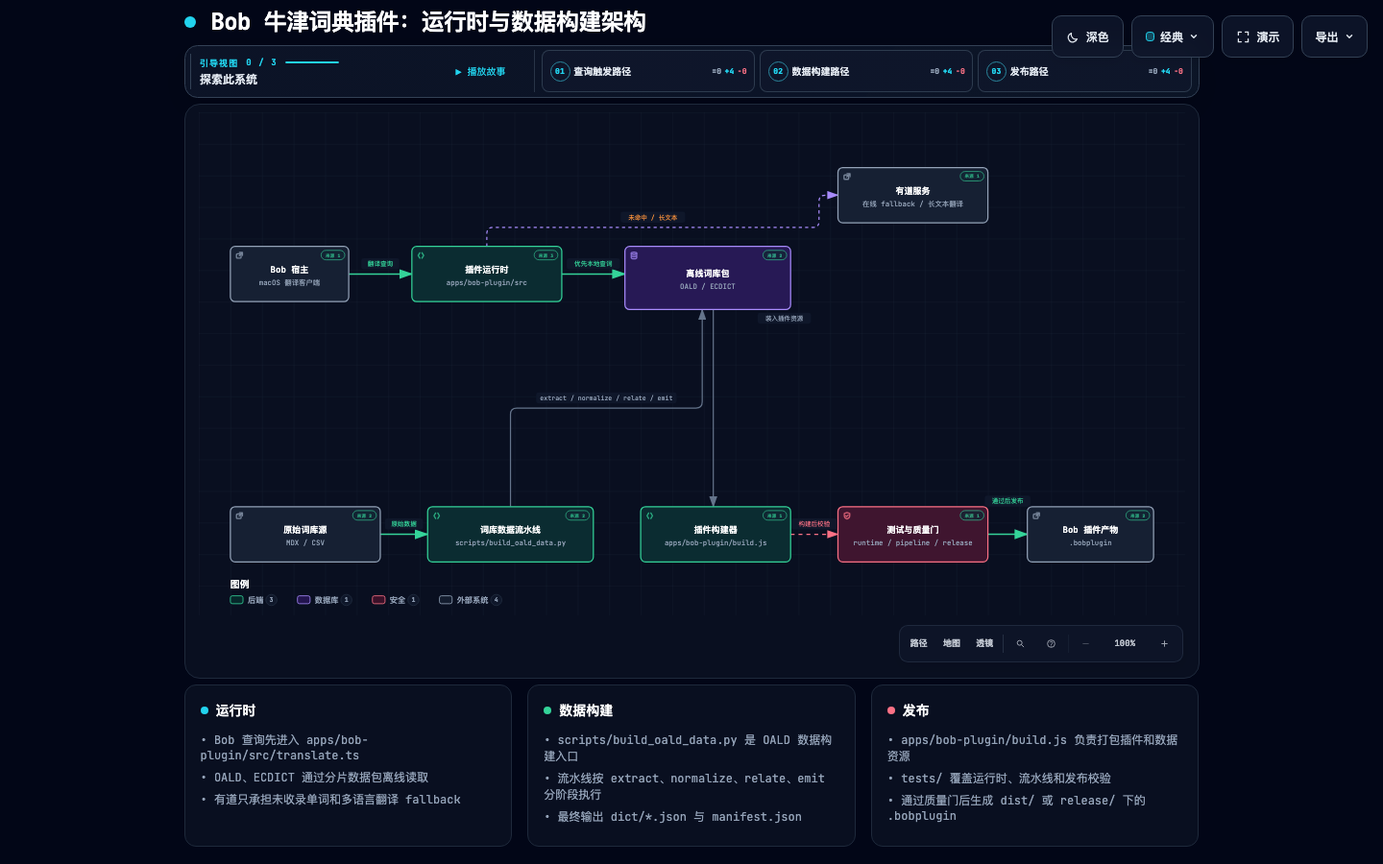
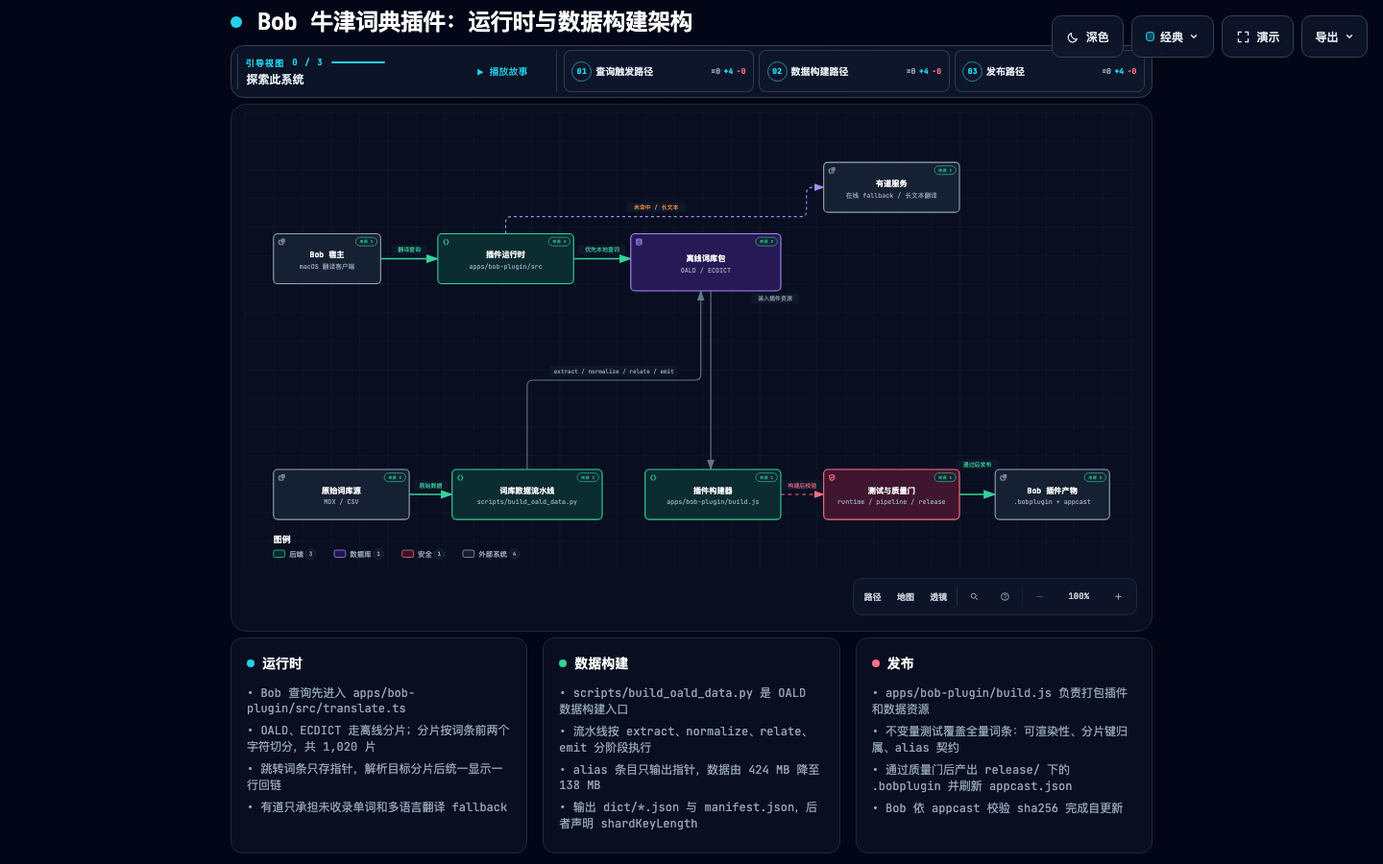
docs: 更新架构图至当前实现
内容同步（原图停留在 alias 指针化之前）：
- 词库包：标注 1,020 个双字母分片
- 运行时卡片：说明分片按前两个字符切分、跳转词条只存指针并显示回链
- 数据构建卡片：alias 指针化带来的 424 MB -> 138 MB，manifest 声明 shardKeyLength
- 发布卡片：补上全量不变量测试与 appcast 自更新链路
- 源码证据 pin 从 e287aae 更新到 01899f7，15 处引用可在该 revision 复核

校验：showcase 9/9 通过、0 错误 0 警告；visual-check 的 containment、
readability、viewerChrome 均 pass，4 张截图已刷新。

diff --git a/docs/bob-plugin-oald-dictionary.architecture.html b/docs/bob-plugin-oald-dictionary.architecture.html
@@ -5086,7 +5086,7 @@ OTHER DEALINGS IN THE FONT SOFTWARE.
     </div>
 
     <script id="archify-guided-views-data" type="application/json">[{"id":"query-path","label":"查询触发路径","focus":["bob","runtime","packs","youdao"],"note":"从 Bob 发起查询，优先读取离线词库，未命中时走有道 fallback。"},{"id":"data-pipeline","label":"数据构建路径","focus":["sources","pipeline","packs","builder"],"note":"从原始词库经过 extract、normalize、relate、emit 生成可读取的数据包。"},{"id":"release-path","label":"发布路径","focus":["packs","builder","tests","release"],"note":"构建脚本装入数据包，经过质量检查后产出 .bobplugin。"}]</script>
-    <script id="archify-source-evidence-data" type="application/json">{"schemaVersion":1,"verified":true,"repository":{"url":"https://github.com/ZhangEx18/bob-plugin-oxford-dictionary","revision":"e287aaefe244554f48b21fb69b4c7f058e6963b1","shortRevision":"e287aae","label":"ZhangEx18/bob-plugin-oxford-dictionary","href":"https://github.com/ZhangEx18/bob-plugin-oxford-dictionary/tree/e287aaefe244554f48b21fb69b4c7f058e6963b1"},"referenceCount":15,"nodes":{"bob":[{"path":"README.md","line":98,"endLine":103,"label":"安装与使用","href":"https://github.com/ZhangEx18/bob-plugin-oxford-dictionary/blob/e287aaefe244554f48b21fb69b4c7f058e6963b1/README.md#L98-L103"}],"runtime":[{"path":"apps/bob-plugin/src/translate.ts","label":"查询分流","href":"https://github.com/ZhangEx18/bob-plugin-oxford-dictionary/blob/e287aaefe244554f48b21fb69b4c7f058e6963b1/apps/bob-plugin/src/translate.ts"},{"path":"apps/bob-plugin/src/entry-view.ts","label":"结果视图","href":"https://github.com/ZhangEx18/bob-plugin-oxford-dictionary/blob/e287aaefe244554f48b21fb69b4c7f058e6963b1/apps/bob-plugin/src/entry-view.ts"},{"path":"apps/bob-plugin/src/data-loader.ts","label":"分片加载","href":"https://github.com/ZhangEx18/bob-plugin-oxford-dictionary/blob/e287aaefe244554f48b21fb69b4c7f058e6963b1/apps/bob-plugin/src/data-loader.ts"}],"packs":[{"path":"README.md","line":67,"endLine":96,"label":"数据包布局","href":"https://github.com/ZhangEx18/bob-plugin-oxford-dictionary/blob/e287aaefe244554f48b21fb69b4c7f058e6963b1/README.md#L67-L96"},{"path":"apps/bob-plugin/src/data-loader.ts","label":"分片加载","href":"https://github.com/ZhangEx18/bob-plugin-oxford-dictionary/blob/e287aaefe244554f48b21fb69b4c7f058e6963b1/apps/bob-plugin/src/data-loader.ts"}],"youdao":[{"path":"apps/bob-plugin/src/youdao.ts","label":"有道请求","href":"https://github.com/ZhangEx18/bob-plugin-oxford-dictionary/blob/e287aaefe244554f48b21fb69b4c7f058e6963b1/apps/bob-plugin/src/youdao.ts"}],"sources":[{"path":"README.md","line":143,"endLine":150,"label":"数据源与产物治理","href":"https://github.com/ZhangEx18/bob-plugin-oxford-dictionary/blob/e287aaefe244554f48b21fb69b4c7f058e6963b1/README.md#L143-L150"},{"path":"env/requirements-oald.txt","label":"Python 依赖","href":"https://github.com/ZhangEx18/bob-plugin-oxford-dictionary/blob/e287aaefe244554f48b21fb69b4c7f058e6963b1/env/requirements-oald.txt"}],"pipeline":[{"path":"scripts/build_oald_data.py","line":1,"label":"统一入口","href":"https://github.com/ZhangEx18/bob-plugin-oxford-dictionary/blob/e287aaefe244554f48b21fb69b4c7f058e6963b1/scripts/build_oald_data.py#L1"},{"path":"scripts/oald_pipeline/normalize.py","label":"分阶段实现","href":"https://github.com/ZhangEx18/bob-plugin-oxford-dictionary/blob/e287aaefe244554f48b21fb69b4c7f058e6963b1/scripts/oald_pipeline/normalize.py"}],"builder":[{"path":"apps/bob-plugin/build.js","label":"打包入口","href":"https://github.com/ZhangEx18/bob-plugin-oxford-dictionary/blob/e287aaefe244554f48b21fb69b4c7f058e6963b1/apps/bob-plugin/build.js"}],"tests":[{"path":"tests/translate-runtime.test.js","label":"运行时回归测试","href":"https://github.com/ZhangEx18/bob-plugin-oxford-dictionary/blob/e287aaefe244554f48b21fb69b4c7f058e6963b1/tests/translate-runtime.test.js"}],"release":[{"path":"README.md","line":24,"endLine":40,"label":"仓库结构","href":"https://github.com/ZhangEx18/bob-plugin-oxford-dictionary/blob/e287aaefe244554f48b21fb69b4c7f058e6963b1/README.md#L24-L40"},{"path":"apps/bob-plugin/build.js","label":"打包产物","href":"https://github.com/ZhangEx18/bob-plugin-oxford-dictionary/blob/e287aaefe244554f48b21fb69b4c7f058e6963b1/apps/bob-plugin/build.js"}]}}</script>
+    <script id="archify-source-evidence-data" type="application/json">{"schemaVersion":1,"verified":true,"repository":{"url":"https://github.com/ZhangEx18/bob-plugin-oxford-dictionary","revision":"01899f78709006a0ca7563d067e40316c6a1099b","shortRevision":"01899f7","label":"ZhangEx18/bob-plugin-oxford-dictionary","href":"https://github.com/ZhangEx18/bob-plugin-oxford-dictionary/tree/01899f78709006a0ca7563d067e40316c6a1099b"},"referenceCount":15,"nodes":{"bob":[{"path":"README.md","line":98,"endLine":103,"label":"安装与使用","href":"https://github.com/ZhangEx18/bob-plugin-oxford-dictionary/blob/01899f78709006a0ca7563d067e40316c6a1099b/README.md#L98-L103"}],"runtime":[{"path":"apps/bob-plugin/src/translate.ts","label":"查询分流","href":"https://github.com/ZhangEx18/bob-plugin-oxford-dictionary/blob/01899f78709006a0ca7563d067e40316c6a1099b/apps/bob-plugin/src/translate.ts"},{"path":"apps/bob-plugin/src/entry-view.ts","label":"结果视图","href":"https://github.com/ZhangEx18/bob-plugin-oxford-dictionary/blob/01899f78709006a0ca7563d067e40316c6a1099b/apps/bob-plugin/src/entry-view.ts"},{"path":"apps/bob-plugin/src/data-loader.ts","label":"分片加载","href":"https://github.com/ZhangEx18/bob-plugin-oxford-dictionary/blob/01899f78709006a0ca7563d067e40316c6a1099b/apps/bob-plugin/src/data-loader.ts"}],"packs":[{"path":"README.md","line":67,"endLine":96,"label":"数据包布局","href":"https://github.com/ZhangEx18/bob-plugin-oxford-dictionary/blob/01899f78709006a0ca7563d067e40316c6a1099b/README.md#L67-L96"},{"path":"apps/bob-plugin/src/data-loader.ts","label":"分片加载","href":"https://github.com/ZhangEx18/bob-plugin-oxford-dictionary/blob/01899f78709006a0ca7563d067e40316c6a1099b/apps/bob-plugin/src/data-loader.ts"}],"youdao":[{"path":"apps/bob-plugin/src/youdao.ts","label":"有道请求","href":"https://github.com/ZhangEx18/bob-plugin-oxford-dictionary/blob/01899f78709006a0ca7563d067e40316c6a1099b/apps/bob-plugin/src/youdao.ts"}],"sources":[{"path":"README.md","line":143,"endLine":150,"label":"数据源与产物治理","href":"https://github.com/ZhangEx18/bob-plugin-oxford-dictionary/blob/01899f78709006a0ca7563d067e40316c6a1099b/README.md#L143-L150"},{"path":"env/requirements-oald.txt","label":"Python 依赖","href":"https://github.com/ZhangEx18/bob-plugin-oxford-dictionary/blob/01899f78709006a0ca7563d067e40316c6a1099b/env/requirements-oald.txt"}],"pipeline":[{"path":"scripts/build_oald_data.py","line":1,"label":"统一入口","href":"https://github.com/ZhangEx18/bob-plugin-oxford-dictionary/blob/01899f78709006a0ca7563d067e40316c6a1099b/scripts/build_oald_data.py#L1"},{"path":"scripts/oald_pipeline/normalize.py","label":"分阶段实现","href":"https://github.com/ZhangEx18/bob-plugin-oxford-dictionary/blob/01899f78709006a0ca7563d067e40316c6a1099b/scripts/oald_pipeline/normalize.py"}],"builder":[{"path":"apps/bob-plugin/build.js","label":"打包入口","href":"https://github.com/ZhangEx18/bob-plugin-oxford-dictionary/blob/01899f78709006a0ca7563d067e40316c6a1099b/apps/bob-plugin/build.js"}],"tests":[{"path":"tests/translate-runtime.test.js","label":"运行时回归测试","href":"https://github.com/ZhangEx18/bob-plugin-oxford-dictionary/blob/01899f78709006a0ca7563d067e40316c6a1099b/tests/translate-runtime.test.js"}],"release":[{"path":"README.md","line":24,"endLine":40,"label":"仓库结构","href":"https://github.com/ZhangEx18/bob-plugin-oxford-dictionary/blob/01899f78709006a0ca7563d067e40316c6a1099b/README.md#L24-L40"},{"path":"apps/bob-plugin/build.js","label":"打包产物","href":"https://github.com/ZhangEx18/bob-plugin-oxford-dictionary/blob/01899f78709006a0ca7563d067e40316c6a1099b/apps/bob-plugin/build.js"}]}}</script>
     <script id="archify-i18n-data" type="application/json">{"locale":"zh-CN","messages":{"viewer.kind.frontend":"前端","viewer.kind.backend":"后端","viewer.kind.database":"数据库","viewer.kind.cloud":"云服务","viewer.kind.security":"安全","viewer.kind.messagebus":"消息总线","viewer.kind.external":"外部系统","viewer.kind.neutral":"中性","viewer.kind.node":"节点","viewer.kind.start":"开始","viewer.kind.active":"活动","viewer.kind.waiting":"等待","viewer.kind.decision":"决策","viewer.kind.success":"成功","viewer.kind.failure":"失败","viewer.toolbar.actions":"图表操作","viewer.theme.toggle.title":"切换主题（T）","viewer.theme.toggle":"切换颜色主题","viewer.theme.dark":"深色","viewer.theme.light":"浅色","viewer.preset.choose.title":"选择视觉风格（S 循环切换）","viewer.preset.choose":"选择视觉风格","viewer.preset.style":"风格","viewer.preset.menu":"视觉风格","viewer.preset.identity":"视觉表达","viewer.preset.cycles":"S 循环切换","viewer.preset.classic":"经典","viewer.preset.classic.short":"经典","viewer.preset.classic.hint":"稳定的技术默认风格","viewer.preset.flow":"信号流","viewer.preset.flow.short":"流动","viewer.preset.flow.hint":"突出动态流向","viewer.preset.blueprint":"蓝图","viewer.preset.blueprint.hint":"工程评审","viewer.preset.editorial":"编辑风格","viewer.preset.editorial.hint":"适合发布与上线说明","viewer.preset.badge.signalFlow":"信号流","viewer.preset.badge.blueprint":"蓝图 / 修订 01","viewer.preset.badge.editorial":"编辑风格 / 现场笔记","viewer.preset.badge.editorialPlate":"ARCHIFY / 图版 04","viewer.preset.current":"当前视觉风格：{style}。选择视觉风格","viewer.motion.live":"动态","viewer.motion.still":"静态","viewer.motion.pause":"暂停动效","viewer.motion.resume":"恢复动效","viewer.motion.reduced":"已根据减少动态效果偏好暂停动效","viewer.motion.hidden":"页面不可见时已暂停动效","viewer.motion.yielding":"暂停动效；当前让位于{owner}","viewer.motion.yielding.title":"动态预览已启用 · 正在让位于{owner}","viewer.owner.story":"引导故事","viewer.owner.chapter":"当前章节","viewer.owner.chapterPreview":"章节差异预览","viewer.owner.handoff":"章节交接","viewer.owner.route":"路径探测","viewer.owner.lens":"语义透镜","viewer.owner.relationship":"关系预览","viewer.owner.intent":"意图追踪","viewer.owner.focus":"语义聚焦","viewer.owner.legend":"图例预览","viewer.owner.reader":"读者交互","viewer.present.enter":"进入演示模式","viewer.present.enter.title":"演示模式（F）","viewer.present.exit":"退出演示模式","viewer.present.exit.title":"退出演示模式（F 或 Escape）","viewer.present.present":"演示","viewer.present.exit.label":"退出","viewer.export.button":"导出","viewer.export.button.title":"导出图表（E）","viewer.export.diagram":"导出图表","viewer.export.menu":"导出","viewer.export.subtitle":"便携、整洁的输出","viewer.export.share":"分享","viewer.export.shareCard":"分享卡片","viewer.export.routeShareCard":"路径分享卡片","viewer.export.reachShareCard":"可达范围分享卡片","viewer.export.copyShareCard":"复制分享卡片","viewer.export.copyDiagram":"复制图表","viewer.export.clipboardPng":"复制 PNG 到剪贴板","viewer.export.raster":"位图","viewer.export.image":"图像","viewer.export.lossless":"无损图像","viewer.export.compact":"紧凑图像","viewer.export.modern":"现代图像格式","viewer.export.vectorMotion":"矢量与动效","viewer.export.vectorMotion.heading":"矢量与动效","viewer.export.editable":"可编辑矢量图","viewer.export.motion6s":"6 秒动效","viewer.export.unsupported":"当前浏览器不支持","viewer.export.clipboardUnsupported":"当前浏览器不支持写入图片剪贴板","viewer.export.clipboardUnsupported.period":"当前浏览器不支持写入图片剪贴板。","viewer.export.clipboardUnsupported.short":"此浏览器不支持写入图片剪贴板。","viewer.export.motionUnavailable":"当前浏览器无法录制动效","viewer.export.webmUnavailable":"当前浏览器不支持 WebM","viewer.export.failed":"导出失败：{message}","viewer.export.unknownVariant":"未知的分享卡片类型：{variant}","viewer.export.routeRequired":"请先追踪路径，再导出路径分享卡片","viewer.export.reachRequired":"请先追踪编写可达范围，再导出可达范围分享卡片","viewer.export.unknown":"未知错误","viewer.export.routeFailed":"路径分享卡片导出失败：{message}","viewer.export.reachFailed":"可达范围分享卡片导出失败：{message}","viewer.export.copyFailed":"复制失败：{message}","viewer.export.copiedPng":"已将 PNG 复制到剪贴板","viewer.export.copiedShare":"已复制分享卡片","viewer.export.downloadedShare":"已下载分享卡片","viewer.export.downloadedRoute":"已下载路径分享卡片","viewer.export.downloadedReach":"已下载可达范围分享卡片","viewer.export.downloadedWebm":"已下载 WebM","viewer.export.recording":"正在录制 6 秒动效…","viewer.export.card.routeSummary.one":"路径：{source} → {target} · {count} 个有向跳转","viewer.export.card.routeSummary.other":"路径：{source} → {target} · {count} 个有向跳转","viewer.export.card.reachSummary":"从{origin}开始的编写{direction} · {nodes} · {links} · 最深 {hops}","viewer.export.card.node.one":"{count} 个节点","viewer.export.card.node.other":"{count} 个节点","viewer.export.card.link.one":"{count} 条连接","viewer.export.card.link.other":"{count} 条连接","viewer.export.card.hop.one":"{count} 跳","viewer.export.card.hop.other":"{count} 跳","viewer.export.card.routeBadge":"ARCHIFY · 路径 · {hops}","viewer.export.card.reachBadge":"ARCHIFY · {direction}可达范围","viewer.export.card.defaultBadge":"ARCHIFY · {preset} · {theme}","viewer.export.direction.upstream":"上游","viewer.export.direction.downstream":"下游","viewer.export.error.canvasUnavailable":"无法为{label}使用画布","viewer.export.error.contextUnavailable":"无法为{label}创建二维画布上下文","viewer.export.error.toBlobUnavailable":"{label}无法使用 canvas.toBlob","viewer.export.error.toBlobNull":"{label}的 canvas.toBlob 未返回数据","viewer.export.error.variantsCombined":"无法同时组合多种分享卡片类型","viewer.export.error.viewerState":"分享卡片导出无法移除临时 Viewer 状态","viewer.export.error.routeState":"路径卡片导出无法安全保留已解析路径","viewer.export.error.reachState":"可达范围卡片导出无法安全保留编写的可达范围","viewer.export.error.webmRequirements":"WebM 动效导出需要追踪动画及浏览器 MediaRecorder 支持","viewer.export.error.mediaRecorder":"MediaRecorder 录制失败","viewer.export.error.emptyWebm":"MediaRecorder 生成了空的 WebM","viewer.export.error.webmBackground":"无法为 WebM 导出加载 SVG 背景","viewer.guided.region":"图表引导视图","viewer.guided.previous":"上一个引导视图","viewer.guided.previous.title":"上一个引导视图（[）","viewer.guided.next":"下一个引导视图","viewer.guided.next.title":"下一个引导视图（]）","viewer.guided.views":"引导视图","viewer.guided.explore":"探索此系统","viewer.guided.intro":"沿精选路径逐步查看，而不改变源图表。","viewer.guided.trail":"故事轨迹","viewer.guided.beat":"节点","viewer.guided.nextBeat":"下一步","viewer.guided.play":"播放引导故事","viewer.guided.play.title":"播放引导故事（P）","viewer.guided.pause":"暂停引导故事","viewer.guided.pause.title":"暂停引导故事（P）","viewer.guided.replay":"重播引导故事","viewer.guided.replay.title":"重播引导故事（P）","viewer.guided.playStory":"播放故事","viewer.guided.pauseStory":"暂停","viewer.guided.replayStory":"重播故事","viewer.guided.motionUnavailable":"静态模式下无法播放故事","viewer.guided.enableMotion":"切换为动态模式以播放引导故事","viewer.guided.selectBeatLink":"选择故事节点以复制其精确链接","viewer.guided.copyMoment":"复制此刻","viewer.guided.momentCopied":"已复制时刻链接","viewer.guided.momentCopyFailed":"无法复制故事时刻链接","viewer.guided.copied":"已复制","viewer.guided.copyFailed":"复制失败","viewer.guided.showAll":"显示全部","viewer.guided.showAll.aria":"显示完整图表","viewer.guided.chapters":"故事章节","viewer.guided.storyTrail":"{label}的故事轨迹：{count} 个节点","viewer.guided.chapter.open":"打开第 {index}/{total} 章：{label}，{count} 个停靠点","viewer.guided.chapter.current":"当前第 {index}/{total} 章：{label}，{count} 个停靠点","viewer.guided.chapter.selectedNodes":"已选择 {count} 个节点","viewer.guided.chapter.stops":"{count} 个停靠点","viewer.guided.chapter.stop.one":"{count} 个停靠点","viewer.guided.chapter.stop.other":"{count} 个停靠点","viewer.guided.chapter.current.title":"{label} — 当前章节，{count} 个停靠点","viewer.guided.chapter.delta.expanded":"{stay} 个保留，{enter} 个进入，{leave} 个离开","viewer.guided.chapter.delta.aria":"打开第 {index}/{total} 章：{label}。章节聚焦差异：{delta}","viewer.guided.chapter.delta.title":"{label} — 章节聚焦 {delta}","viewer.guided.handoff":"{from} → {to} · 经由{label}","viewer.guided.share.chapter":"章节 {index} / {total}","viewer.guided.share.initial":"章节 01 / 01","viewer.guided.share.default":"引导章节","viewer.guided.state.ready":"就绪","viewer.guided.state.playing":"播放中","viewer.guided.state.settled":"已完成","viewer.guided.state.paused":"已暂停","viewer.guided.state.pinned":"已固定","viewer.guided.state.still":"静态","viewer.guided.share.step":"步骤 {index} / {total} · {label}","viewer.guided.share.staticMoment":"{step} · 静态时刻","viewer.guided.share.complete":"{count} 个步骤已完成 · {note}","viewer.guided.share.settled":"路径已稳定，可供阅读。","viewer.guided.share.staticPath":"{count} 个步骤 · 静态路径","viewer.guided.share.ready":"{count} 个步骤 · 就绪","viewer.guided.share.aria":"{state}，第 {index}/{total} 章：{label}。{beat}。{route}","viewer.guided.beat.start":"节点 {index} / {total} · {label} · 起点","viewer.guided.beat.forward":"节点 {index} / {total} · {from} → {to}","viewer.guided.beat.reverse":"节点 {index} / {total} · {from} → {to} · 反向编写连接","viewer.guided.beat.multiple":"节点 {index} / {total} · {from} ⇄ {to} · {count} 条编写连接","viewer.guided.beat.group":"节点 {index} / {total} · {from} · {to} · 分组 · 无直接连接","viewer.guided.beat.aria.prefix":"故事节点 {index}/{total}：{label}。","viewer.guided.beat.aria.start":"起点。","viewer.guided.beat.aria.forward":"从{from}经一条正向编写关系到达。","viewer.guided.beat.aria.reverse":"从{from}出发；编写关系实际由{to}指向{from}。","viewer.guided.beat.aria.multiple":"从{from}经 {count} 条编写关系到达；不使用任意动效。","viewer.guided.beat.aria.group":"与{from}分组展示，没有直接编写关系。","viewer.guided.caption.start":"起点","viewer.guided.caption.grouped":"分组过渡 · 无直接编写连接","viewer.guided.caption.more":" +另外 {count} 条","viewer.guided.caption.reverse":"反向编写关系","viewer.guided.caption.relationships":"{count} 条编写关系","viewer.guided.caption.relationship":"编写关系","viewer.guided.caption.direction":"编写方向：{from} → {to}","viewer.guided.caption.starting":"编写起点","viewer.guided.beatLink":"复制当前故事时刻链接：第 {index}/{total} 个节点：{label}","viewer.guided.noStory":"此图表没有编写引导故事。","viewer.guide.eyebrow":"图表指南","viewer.guide.close":"关闭图表指南","viewer.guide.inspecting":"正在检查已编译语义","viewer.guide.actions":"图表探索操作","viewer.guide.find":"查找任意节点","viewer.guide.find.hint":"搜索标签、职责、类型和稳定 ID。","viewer.guide.route":"追踪路径","viewer.guide.route.aria":"追踪有向路径","viewer.guide.route.hint":"查看两个语义节点如何按编写方向连接。","viewer.guide.map":"查看完整系统","viewer.guide.map.hint":"打开带实时视口和稳定节点的语义雷达。","viewer.guide.lens":"比较语义类型","viewer.guide.lens.hint":"统计角色、显示流量并比较直接编写的连接。","viewer.guide.story":"播放引导故事","viewer.guide.story.hint":"浏览已编写的章节和真实关系。","viewer.guide.present":"进入演示模式","viewer.guide.present.hint":"让实时图表占满视口，同时不改变导出。","viewer.guide.shortcuts":"其他键盘快捷键","viewer.guide.shortcut.export":"导出","viewer.guide.shortcut.theme":"主题","viewer.guide.shortcut.style":"风格","viewer.guide.shortcut.reset":"重置","viewer.guide.shortcut.zoomIn":"放大","viewer.guide.shortcut.zoomOut":"缩小","viewer.guide.shortcut.close":"关闭","viewer.guide.facts":"{nodes} · {relationships} · {views}","viewer.guide.fact.node.one":"{count} 个语义节点","viewer.guide.fact.node.other":"{count} 个语义节点","viewer.guide.fact.relationship.one":"{count} 条关系","viewer.guide.fact.relationship.other":"{count} 条关系","viewer.guide.fact.view.one":"{count} 个引导视图","viewer.guide.fact.view.other":"{count} 个引导视图","viewer.guide.story.available.one":"浏览 {count} 个已编写章节及其真实关系。","viewer.guide.story.available.other":"浏览 {count} 个已编写章节及其真实关系。","viewer.guide.story.unavailable":"此图表没有编写引导故事。","viewer.guide.open":"打开图表指南","viewer.guide.noStory":"此图表没有编写引导故事。","viewer.finder.title":"查找节点","viewer.finder.close":"关闭节点查找器","viewer.finder.placeholder":"搜索标签或 ID","viewer.finder.search":"搜索图表节点","viewer.finder.results":"图表节点","viewer.finder.empty":"没有匹配的节点","viewer.finder.result.focus":"聚焦{label}","viewer.finder.result.routeStart":"选择{label}作为路径起点","viewer.finder.result.routeTarget":"选择{label}作为路径终点，{links}","viewer.finder.status.empty":"没有匹配的节点","viewer.finder.status.count.one":"{count} 个匹配节点","viewer.finder.status.count.other":"{count} 个匹配节点","viewer.finder.noun.nodes":"个节点","viewer.finder.link.one":"{count} 条连接","viewer.finder.link.other":"{count} 条连接","viewer.finder.result.focus.one":"聚焦{label}，{count} 条相关连接","viewer.finder.result.focus.other":"聚焦{label}，{count} 条相关连接","viewer.finder.status.filtered":"{visible}/{available} {noun}","viewer.finder.status.all":"{available} {noun}","viewer.passport.eyebrow":"语义护照","viewer.passport.metadata":"节点元数据","viewer.passport.evidence":"已验证的源代码证据","viewer.passport.verified":"已验证来源","viewer.passport.verificationScope":"已按固定修订版本验证本地 Git 证据，未检查远程访问权限。","viewer.passport.reach":"编写可达范围","viewer.passport.reach.trace":"追踪编写的可达性","viewer.passport.upstream":"上游","viewer.passport.downstream":"下游","viewer.passport.upstream.trace":"追踪上游编写可达性","viewer.passport.downstream.trace":"追踪下游编写可达性","viewer.passport.close":"关闭语义护照","viewer.passport.copy":"复制链接","viewer.passport.copy.focus":"复制聚焦节点的链接","viewer.passport.relations":"关系","viewer.passport.relations.show":"显示关联关系","viewer.passport.relations.hide":"隐藏关联关系","viewer.passport.relations.list":"关联关系","viewer.passport.copyRelation":"复制关系","viewer.passport.copyNode":"复制节点","viewer.passport.copyPinned":"复制固定关系的链接","viewer.passport.copySource":"复制来源节点的链接","viewer.passport.copy.focused.success":"已复制聚焦节点链接","viewer.passport.copy.pinned.success":"已复制固定关系链接","viewer.passport.copy.focused.failed":"无法复制聚焦节点链接","viewer.passport.copy.pinned.failed":"无法复制固定关系链接","viewer.passport.relationship.none":"没有关联关系","viewer.passport.relationship.count.one":"{count} 条关系","viewer.passport.relationship.count.other":"{count} 条关系","viewer.passport.relationship.show.one":"显示 {count} 条关联关系","viewer.passport.relationship.show.other":"显示 {count} 条关联关系","viewer.passport.relationship.summary":"{out} 条出向 · {in} 条入向{loops}","viewer.passport.relationship.loops":" · {count} 条自环","viewer.passport.relationship.explorer":"直接关系浏览器","viewer.passport.relationship.help":"使用方向键浏览关系。按 Enter 或空格键固定详情；按 Escape 清除。","viewer.passport.relationship.loopsBack":"回环","viewer.passport.relationship.connectsTo":"连接到","viewer.passport.relationship.connectsFrom":"连接自","viewer.passport.relationship.pinned":"已固定关系 · {from} → {to} · {label}","viewer.passport.relationship.inspect":"检查第 {index}/{total} 条关系：{from} 到 {to}，{label}。按 Enter 查看详情。","viewer.passport.relationship.group.out":"出向","viewer.passport.relationship.group.in":"入向","viewer.passport.relationship.group.loop":"自环","viewer.passport.relationship.row":"{group}：{relationship}，{neighbor}","viewer.passport.relationship.direction.out":"出 →","viewer.passport.relationship.direction.in":"← 入","viewer.passport.relationship.direction.loop":"自环","viewer.passport.sourceCount.one":"{count} 个已验证来源引用","viewer.passport.sourceCount.other":"{count} 个已验证来源引用","viewer.passport.sourceMarker":"来源","viewer.passport.beacon.one":"{count} 个已验证来源；聚焦此节点以检查","viewer.passport.beacon.other":"{count} 个已验证来源；聚焦此节点以检查","viewer.passport.repository.open":"打开已验证的仓库修订版本 {revision}","viewer.passport.source.open":"打开修订版本 {revision} 中已验证的来源 {path}","viewer.passport.source.openLink":"打开 ↗","viewer.passport.reach.upstream.one":"追踪 {count} 个上游编写节点","viewer.passport.reach.upstream.other":"追踪 {count} 个上游编写节点","viewer.passport.reach.downstream.one":"追踪 {count} 个下游编写节点","viewer.passport.reach.downstream.other":"追踪 {count} 个下游编写节点","viewer.passport.reach.noUpstream":"没有上游编写节点","viewer.passport.reach.noDownstream":"没有下游编写节点","viewer.passport.reach.status":"{direction} · {nodes} 个节点 · {links} 条连接 · 最深 {hops} 跳","viewer.route.eyebrow":"路径探测","viewer.route.start":"选择起点节点","viewer.route.start.find":"查找起点","viewer.route.start.find.aria":"查找路径起点","viewer.route.copy":"复制链接","viewer.route.copy.aria":"复制已追踪路径的链接","viewer.route.clear":"清除","viewer.route.clear.aria":"清除路径探测","viewer.route.traced":"已追踪路径","viewer.route.pickTwo":"在图表中选择两个语义节点","viewer.route.pickOne":"在图表中选择一个语义节点","viewer.route.controls":"路径旅程控制","viewer.route.previous":"上一个路径位置","viewer.route.play":"播放路径旅程","viewer.route.pause":"暂停路径旅程","viewer.route.replay":"重播路径旅程","viewer.route.next":"下一个路径位置","viewer.route.journey":"旅程","viewer.route.pause.label":"暂停","viewer.route.replay.label":"重播","viewer.route.overview":"总览","viewer.route.overview.aria":"显示完整路径总览","viewer.route.instructions":"先选择来源，再选择目标；方向很重要。","viewer.route.destination":"选择从{label}出发的目标","viewer.route.destination.find":"查找目标","viewer.route.destination.find.aria":"查找可达的路径目标","viewer.route.differentDestination":"选择其他目标","viewer.route.distinct":"一条路径需要两个不同的语义节点。","viewer.route.unreachable":"没有通往{label}的有向路径","viewer.route.unreachable.detail":"从{source}无法到达{target}。请选择高亮的目标。","viewer.route.start.instructions":"选择来源。下一步只会显示有向可达的目标。","viewer.route.copy.success":"已复制路径链接","viewer.route.copy.failed":"无法复制路径链接","viewer.route.position":"路径位置 {index}/{total}：{label}","viewer.route.step":"第 {index}/{total} 步 · {phase} · {label}","viewer.route.motionRequired":"自动旅程需要动态模式","viewer.route.trigger.clear":"清除已追踪路径","viewer.route.overview.status":"{nodes} · {hops} · 最短编写路径","viewer.route.overview.node.one":"{count} 个节点","viewer.route.overview.node.other":"{count} 个节点","viewer.route.overview.hop.one":"{count} 个有向跳转","viewer.route.overview.hop.other":"{count} 个有向跳转","viewer.route.phase.playing":"播放中","viewer.route.phase.complete":"已完成","viewer.route.phase.inspecting":"检查中","viewer.route.destination.count.one":"有 {count} 个有向目标可用。请选择高亮节点。","viewer.route.destination.count.other":"有 {count} 个有向目标可用。请选择高亮节点。","viewer.route.noOutgoing":"此处没有可用的出向路径。请清除后选择其他来源。","viewer.route.result.title":"{source} 到 {target}","viewer.route.finder.source.title":"选择路径起点","viewer.route.finder.source.placeholder":"搜索路径来源","viewer.route.finder.source.empty":"没有匹配的路径来源","viewer.route.finder.source.results":"可作为路径起点的节点","viewer.route.finder.source.noun":"个路径来源","viewer.route.finder.source.badge":"起点","viewer.route.finder.target.title":"从{label}出发的目标","viewer.route.finder.target.placeholder":"搜索可达目标","viewer.route.finder.target.empty":"没有匹配的可达目标","viewer.route.finder.target.results":"可达路径目标","viewer.route.finder.target.noun":"个可达目标","viewer.route.hop.one":"{count} 跳","viewer.route.hop.other":"{count} 跳","viewer.lens.eyebrow":"语义透镜","viewer.lens.title":"比较系统角色","viewer.lens.close":"关闭语义透镜","viewer.lens.instruction":"最多选择两种语义类型。选择一种可显示其真实流量；选择两种只比较直接编写的关系。","viewer.lens.kinds":"语义类型","viewer.lens.choose":"选择一种类型以检查其节点和相连关系。","viewer.lens.copy":"复制语义透镜链接","viewer.lens.clear":"清除语义透镜","viewer.lens.open":"打开语义透镜","viewer.lens.openActive":"打开当前语义透镜","viewer.lens.legend":"语义图例","viewer.lens.legend.inspect.one":"检查{label}，{count} 个节点","viewer.lens.legend.inspect.other":"检查{label}，{count} 个节点","viewer.lens.kind.count.one":"{label}，{count} 个节点","viewer.lens.kind.count.other":"{label}，{count} 个节点","viewer.lens.compare.one":"{first} → {second}：{forward} · {second} → {first}：{reverse} · 共 {count} 条直接关系","viewer.lens.compare.other":"{first} → {second}：{forward} · {second} → {first}：{reverse} · 共 {count} 条直接关系","viewer.lens.single":"{nodes} · {relationships} · 已连接节点保持可见","viewer.lens.node.one":"{count} 个{label}节点","viewer.lens.node.other":"{count} 个{label}节点","viewer.lens.relationship.one":"{count} 条相连关系","viewer.lens.relationship.other":"{count} 条相连关系","viewer.radar.title":"语义雷达","viewer.radar.building":"正在构建总览","viewer.radar.openFull":"打开完整语义雷达","viewer.radar.open":"打开雷达","viewer.radar.close":"关闭语义雷达","viewer.radar.surface":"图表总览。点击节点进行聚焦，或使用方向键平移。","viewer.radar.click":"点击节点","viewer.radar.drag":"拖动平移","viewer.radar.space":"语义雷达需要更多地图可见空间。","viewer.radar.nodes":"语义图表雷达节点","viewer.radar.focus":"从语义雷达聚焦{label}","viewer.radar.status":"{count} 个节点 · {viewport}","viewer.radar.fullMap":"{count} 个节点 · 完整地图","viewer.radar.compacted":"已收紧雷达，避免遮挡语义护照或地图控件。","viewer.radar.cancelWaiting":"取消等待更多地图空间的语义雷达","viewer.radar.needsSpace":"语义雷达需要更多可见地图空间","viewer.radar.viewport.full":"完整地图","viewer.radar.viewport.width":"宽度 {percent}%","viewer.radar.viewport.scale":"视口 {percent}%","viewer.nav.controls":"图表视图控制","viewer.nav.route":"追踪有向路径","viewer.nav.route.title":"追踪路径（R）","viewer.nav.route.short":"路径","viewer.nav.radar":"打开语义雷达","viewer.nav.radar.title":"语义雷达（M）","viewer.nav.radar.short":"地图","viewer.nav.lens":"打开语义透镜","viewer.nav.lens.title":"语义透镜（L）","viewer.nav.lens.short":"透镜","viewer.nav.find":"查找节点","viewer.nav.find.title":"查找节点（/）","viewer.nav.guide":"打开图表指南","viewer.nav.guide.title":"图表指南（?）","viewer.nav.zoomOut":"缩小","viewer.nav.zoomOut.title":"缩小（-）","viewer.nav.reset":"重置图表视图","viewer.nav.reset.title":"重置视图（0）","viewer.nav.read":"阅读","viewer.nav.zoomIn":"放大","viewer.nav.zoomIn.title":"放大（+）","viewer.nav.camera":"{hint}。重置图表视图","viewer.nav.camera.title":"{semantic}{hint} · 重置视图（0）","viewer.nav.camera.semantic":"语义相机已启用 · ","viewer.nav.level.map":"概览","viewer.nav.level.read":"阅读","viewer.nav.level.full":"完整","viewer.nav.level.auto":"自动","viewer.nav.detail.map":"放大以显示关系标签和节点上下文","viewer.nav.detail.read":"再次放大以显示标签和注释","viewer.nav.detail.full":"完整图表详情","viewer.intent.summary":"{label}。{out} 条出向，{in} 条入向{loops}。共 {total} 条连接。按 Enter 查看详情。","viewer.intent.loops":"，{count} 条自环","viewer.common.copied":"已复制","viewer.common.copyFailed":"复制失败","viewer.common.copyLink":"复制链接","viewer.common.clear":"清除","viewer.common.close":"关闭"}}</script>
     <div class="guided-views no-print" id="guided-views" hidden aria-label="图表引导视图">
       <button id="guided-view-prev" type="button" aria-label="上一个引导视图" title="上一个引导视图（[）">&#8592;</button>
@@ -5194,8 +5194,8 @@ OTHER DEALINGS IN THE FONT SOFTWARE.
         <text data-detail="fine" x="365" y="232" class="t-backend" font-size="7" text-anchor="middle">TypeScript</text>
         </g>
 
-        <g id="node-packs" data-node-id="packs" data-node-label="离线词库包" tabindex="0" role="button" aria-label="聚焦离线词库包，OALD / ECDICT, 架构组件" aria-pressed="false" data-node-kind="database" data-node-sublabel="OALD / ECDICT" data-node-tag="shard + manifest" data-node-context="架构组件">
-          <title>离线词库包 · OALD / ECDICT · 架构组件 · shard + manifest</title>
+        <g id="node-packs" data-node-id="packs" data-node-label="离线词库包" tabindex="0" role="button" aria-label="聚焦离线词库包，OALD / ECDICT, 架构组件" aria-pressed="false" data-node-kind="database" data-node-sublabel="OALD / ECDICT" data-node-tag="1020 分片 + manifest" data-node-context="架构组件">
+          <title>离线词库包 · OALD / ECDICT · 架构组件 · 1020 分片 + manifest</title>
           <rect x="540" y="170" width="210" height="80" rx="6" class="c-mask"/>
           <rect x="540" y="170" width="210" height="80" rx="6" class="c-database" stroke-width="1.5"/>
           <g aria-hidden="true" data-semantic-sigil="database" class="semantic-sigil s-database" transform="translate(546 176) scale(0.6875)">
@@ -5204,7 +5204,7 @@ OTHER DEALINGS IN THE FONT SOFTWARE.
           </g>
           <text data-node-label="" data-detail-anchor="" x="645" y="208" class="t-primary" font-size="11" font-weight="600" text-anchor="middle">离线词库包</text>
         <text data-detail="context" x="645" y="224" class="t-muted" font-size="9" text-anchor="middle">OALD / ECDICT</text>
-        <text data-detail="fine" x="645" y="242" class="t-database" font-size="7" text-anchor="middle">shard + manifest</text>
+        <text data-detail="fine" x="645" y="242" class="t-database" font-size="7" text-anchor="middle">1020 分片 + manifest</text>
         </g>
 
         <g id="node-youdao" data-node-id="youdao" data-node-label="有道服务" tabindex="0" role="button" aria-label="聚焦有道服务，在线 fallback / 长文本翻译, 架构组件" aria-pressed="false" data-node-kind="external" data-node-sublabel="在线 fallback / 长文本翻译" data-node-tag="网络依赖" data-node-context="架构组件">
@@ -5270,8 +5270,8 @@ OTHER DEALINGS IN THE FONT SOFTWARE.
         <text data-detail="fine" x="905" y="562" class="t-security" font-size="7" text-anchor="middle">校验</text>
         </g>
 
-        <g id="node-release" data-node-id="release" data-node-label="Bob 插件产物" tabindex="0" role="button" aria-label="聚焦Bob 插件产物，.bobplugin, 架构组件" aria-pressed="false" data-node-kind="external" data-node-sublabel=".bobplugin" data-node-tag="dist / release" data-node-context="架构组件">
-          <title>Bob 插件产物 · .bobplugin · 架构组件 · dist / release</title>
+        <g id="node-release" data-node-id="release" data-node-label="Bob 插件产物" tabindex="0" role="button" aria-label="聚焦Bob 插件产物，.bobplugin + appcast, 架构组件" aria-pressed="false" data-node-kind="external" data-node-sublabel=".bobplugin + appcast" data-node-tag="自更新链路" data-node-context="架构组件">
+          <title>Bob 插件产物 · .bobplugin + appcast · 架构组件 · 自更新链路</title>
           <rect x="1050" y="500" width="160" height="70" rx="6" class="c-mask"/>
           <rect x="1050" y="500" width="160" height="70" rx="6" class="c-external" stroke-width="1.5"/>
           <g aria-hidden="true" data-semantic-sigil="external" class="semantic-sigil s-external" transform="translate(1056 506) scale(0.6875)">
@@ -5279,8 +5279,8 @@ OTHER DEALINGS IN THE FONT SOFTWARE.
             <path d="M8 2.5h5.5V8M13.5 2.5 7.5 8.5"/>
           </g>
           <text data-node-label="" data-detail-anchor="" x="1130" y="533" class="t-primary" font-size="11" font-weight="600" text-anchor="middle">Bob 插件产物</text>
-        <text data-detail="context" x="1130" y="549" class="t-muted" font-size="9" text-anchor="middle">.bobplugin</text>
-        <text data-detail="fine" x="1130" y="562" class="t-external" font-size="7" text-anchor="middle">dist / release</text>
+        <text data-detail="context" x="1130" y="549" class="t-muted" font-size="9" text-anchor="middle">.bobplugin + appcast</text>
+        <text data-detail="fine" x="1130" y="562" class="t-external" font-size="7" text-anchor="middle">自更新链路</text>
         </g>
 
         <!-- Connection labels -->
@@ -5533,7 +5533,8 @@ OTHER DEALINGS IN THE FONT SOFTWARE.
         </div>
         <ul>
           <li>&bull; Bob 查询先进入 apps/bob-plugin/src/translate.ts</li>
-          <li>&bull; OALD、ECDICT 通过分片数据包离线读取</li>
+          <li>&bull; OALD、ECDICT 走离线分片；分片按词条前两个字符切分，共 1,020 片</li>
+          <li>&bull; 跳转词条只存指针，解析目标分片后统一显示一行回链</li>
           <li>&bull; 有道只承担未收录单词和多语言翻译 fallback</li>
         </ul>
       </div>
@@ -5546,7 +5547,8 @@ OTHER DEALINGS IN THE FONT SOFTWARE.
         <ul>
           <li>&bull; scripts/build_oald_data.py 是 OALD 数据构建入口</li>
           <li>&bull; 流水线按 extract、normalize、relate、emit 分阶段执行</li>
-          <li>&bull; 最终输出 dict/*.json 与 manifest.json</li>
+          <li>&bull; alias 条目只输出指针，数据由 424 MB 降至 138 MB</li>
+          <li>&bull; 输出 dict/*.json 与 manifest.json，后者声明 shardKeyLength</li>
         </ul>
       </div>
 
@@ -5557,8 +5559,9 @@ OTHER DEALINGS IN THE FONT SOFTWARE.
         </div>
         <ul>
           <li>&bull; apps/bob-plugin/build.js 负责打包插件和数据资源</li>
-          <li>&bull; tests/ 覆盖运行时、流水线和发布校验</li>
-          <li>&bull; 通过质量门后生成 dist/ 或 release/ 下的 .bobplugin</li>
+          <li>&bull; 不变量测试覆盖全量词条：可渲染性、分片键归属、alias 契约</li>
+          <li>&bull; 通过质量门后产出 release/ 下的 .bobplugin 并刷新 appcast.json</li>
+          <li>&bull; Bob 依 appcast 校验 sha256 完成自更新</li>
         </ul>
       </div>
     </div>
